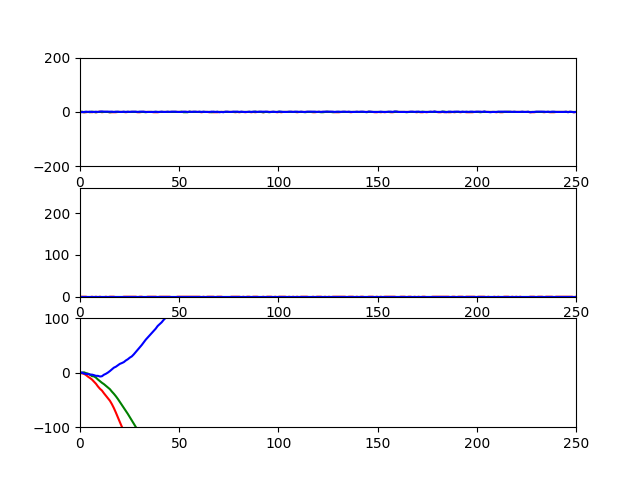
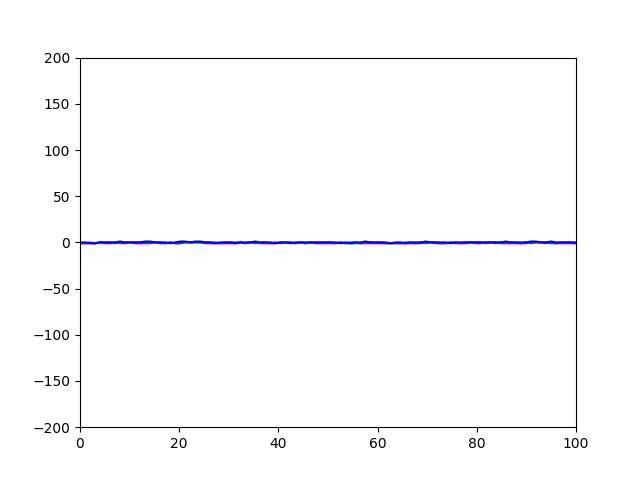
kalman filter works but it still sucks

diff --git a/PYTHON_codes/UDPclient.py b/PYTHON_codes/UDPclient.py
@@ -25,97 +25,105 @@ def plot_data(num_points,x,y,z,subplot,axisrange):
         subplot is a integer
         axisrange is a tuple
     '''
-    plt.subplot(subplot)
+    if(subplot > 0):
+        plt.subplot(subplot)
+    #print(np.shape(x))
     plt.plot(np.linspace(0,num_points,num_points), x, 'r')
     plt.plot(np.linspace(0,num_points,num_points), y, 'g')
     plt.plot(np.linspace(0,num_points,num_points), z, 'b')
     plt.axis([0, num_points, axisrange[0],axisrange[1]])
 
-while True: 
-    #___Send First Packet___
+try:
+    while True: 
+        #___Send First Packet___
+        UDPClientSocket.sendto(bytesToSend, serverAddressPort)
+        print("sent msg to server")
+        starttime = time.time()
+        time.sleep(0.1)
+        while True:
+            try:
+                #__Receive data___
+                msgFromServer = UDPClientSocket.recvfrom(bufferSize)
+                biscoito = json.loads(str(msgFromServer[0], 'utf-8'))
+                #print(biscoito['A']) 
+                Ax.append(biscoito['A'][0]-4) 
+                Ay.append(biscoito['A'][1]-1)
+                Az.append(biscoito['A'][2]-93)
+                Gx.append(biscoito['A'][3])
+                Gy.append(biscoito['A'][4])
+                Gz.append(biscoito['A'][5])
+                #print(Ax[-1],' | ',Ay[-1])
+                
+                #__Kalman___
+                f = KalmanFilter (dim_x=3,dim_z=3)
+                f.x = np.array([[0.],    # Ax
+                                [0.],    # Ay
+                                [0.]])   # Az
+                f.F = np.array([[1.,0.,0.], #F = A
+                                [0.,1.,0.],
+                                [0.,0.,1.]])
+                f.H = np.array([[1.,0.,0.], #H = C
+                                [0.,1.,0.],
+                                [0.,0.,1.]])
+                f.P = np.array([[0.05,0.,0.],
+                                [0.,0.05,0.],
+                                [0.,0.,0.05]])
+                f.R = np.array([[0.05,0.,0.],
+                                [0.,0.05,0.],
+                                [0.,0.,0.05]])
+                f.predict() #x,P
+                f.update([[Ax[-1]], #X,P
+                        [Ay[-1]],
+                        [Az[-1]]])
+                K_Ax.append(f.x[0])
+                K_Ay.append(f.x[1])
+                K_Az.append(f.x[2])
+                
+                #__Integrate data__
+                Vx.append(Vx[-1] + (Ax[-1] + Ax[-2])/2.0) 
+                Vy.append(Vy[-1] + (Ay[-1] + Ay[-2])/2.0)
+                Vz.append(Vz[-1] + (Az[-1] + Az[-2])/2.0)
+                Sx.append(Sx[-1] + Vx[-2] + (Ax[-2] + Ax[-1]/4.0))
+                Sy.append(Sy[-1] + Vy[-2] + (Ay[-2] + Ay[-1]/4.0))
+                Sz.append(Sz[-1] + Vz[-2] + (Az[-2] + Az[-1]/4.0))
+                time.sleep(0.01)
+            
+            except:
+                pass
+
+            #___Populating the plot_____
+            num_points = 100
+            if(len(Ax) == num_points):
+                #__Saving the figure____
+                plt.figure()
+                plot_data(num_points,Ax,Ay,Az,311,(-200,200))
+                plot_data(num_points,Gx,Gy,Gz,312,(0,260))
+                plot_data(num_points,Sx,Sy,Sz,313,(-100,100))
+                plt.figure()
+                plot_data(num_points,K_Ax,K_Ay,K_Az,0,(-200,200))
+                print('Saving sensor data')
+                plt.savefig('../plots/SensorData' + str(img_iter))
+
+                #__FFT data__
+                #N = num_points
+                #yf = np.abs(scipy.fft.fft(np.asarray(Ay)))
+                #xf = np.linspace(0.0, int(100/2), num_points//2)
+                #plt.figure()
+                #plt.plot(xf,2.0/num_points*yf[0:N//2])
+                plt.show()
+
+                #__Emptying the lists___
+                Ax,Ay,Az = [],[],[]
+                Gx,Gy,Gz = [],[],[]
+                img_iter +=1
+
+                #__Send another packet to stop__
+                UDPClientSocket.sendto(bytesToSend, serverAddressPort)
+                #time.sleep(50)
+                break
+        break
+except Exception as e:
+    print(e)
     UDPClientSocket.sendto(bytesToSend, serverAddressPort)
-    print("sent msg to server")
-    starttime = time.time()
-    time.sleep(0.1)
-    while True:
-        try:
-            #__Receive data___
-            msgFromServer = UDPClientSocket.recvfrom(bufferSize)
-            biscoito = json.loads(str(msgFromServer[0], 'utf-8'))
-            #print(biscoito['A']) 
-            Ax.append(biscoito['A'][0]-4) 
-            Ay.append(biscoito['A'][1]-1)
-            Az.append(biscoito['A'][2]-93)
-            Gx.append(biscoito['A'][3])
-            Gy.append(biscoito['A'][4])
-            Gz.append(biscoito['A'][5])
-            print(Ax[-1],' | ',Ay[-1])
-
-            #__Kalman___
-            f = KalmanFilter (dim_x=3,dim_z=3)
-            f.x = np.array([[0.],    # position
-                            [0.],
-                            [0.]])   # velocity
-            f.F = np.array([[1.,0.,0.],
-                            [0.,1.,0.],
-                            [0.,0.,1.]])
-            f.H = np.array([[1.,0.,0.],
-                            [0.,1.,0.],
-                            [0.,0.,1.]])
-            f.P = np.array([[0.05,0.,0.],
-                            [0.,0.05,0.],
-                            [0.,0.,0.05]])
-            f.R = np.array([[0.05,0.,0.],
-                            [0.,0.05,0.],
-                            [0.,0.,0.05]])
-            x, P = predict(x, P, F)
-            x, P = update(x, P, z, R, H)
-
-            #__Integrate data__
-            timer = time.time()
-            Vx.append(Vx[-1] + (Ax[-1] + Ax[-2])/2.0) 
-            Vy.append(Vy[-1] + (Ay[-1] + Ax[-2])/2.0)
-            Vz.append(Vz[-1] + (Az[-1] + Ax[-2])/2.0)
-            Sx.append(Sx[-1] + Vx[-2] + (Ax[-2] + Ax[-1]/4.0))
-            Sy.append(Sy[-1] + Vy[-2] + (Ay[-2] + Ay[-1]/4.0))
-            Sz.append(Sz[-1] + Vz[-2] + (Az[-2] + Az[-1]/4.0))
-            time.sleep(0.01)
-            
-            
-        except KeyboardInterrupt:
-            UDPClientSocket.sendto(bytesToSend, serverAddressPort)
-            exit()
-        except:
-            pass
-
-        #___Populating the plot_____
-        num_points = 250
-        if(len(Ax) == num_points):
-            #__Saving the figure____
-            plt.figure()
-            plot_data(num_points,Ax,Ay,Az,311,(-200,200))
-            plot_data(num_points,Gx,Gy,Gz,312,(0,260))
-            plot_data(num_points,Sx,Sy,Sz,313,(-100,100))
-            print('Saving sensor data')
-            plt.savefig('../plots/SensorData' + str(img_iter))
-
-            #__FFT data__
-            N = num_points
-            yf = np.abs(scipy.fft.fft(np.asarray(Ay)))
-            xf = np.linspace(0.0, int(100/2), num_points//2)
-            plt.figure()
-            plt.plot(xf,2.0/num_points*yf[0:N//2])
-            plt.show()
-
-            #__Emptying the lists___
-            Ax,Ay,Az = [],[],[]
-            Gx,Gy,Gz = [],[],[]
-            img_iter +=1
-
-            #__Send another packet to stop__
-            UDPClientSocket.sendto(bytesToSend, serverAddressPort)
-            #time.sleep(50)
-            break
-    break
-    
+    exit()   
 

diff --git a/PYTHON_codes/asd.py b/PYTHON_codes/asd.py
@@ -1,19 +1,5 @@
-from filterpy.kalman import KalmanFilter
-from filterpy.common import Q_discrete_white_noise
-
-f = KalmanFilter (dim_x=2, dim_z=1)
-f.x = np.array([[0.],    # position
-                [0.]])   # velocity
-f.F = np.array([[1.,1.],
-                [0.,1.]])
-f.H = np.array([[1.,0.]])
-f.P = np.array([[1000.,    0.],
-                [   0., 1000.] ])
-f.R = np.array([[.05,0.,0.],
-                [0.,1.,0.],
-                [0.,0.,1.]])
-
-while True:
-    z, R = read_sensor()
-    x, P = predict(x, P, F, Q)
-    x, P = update(x, P, z, R, H)
+import numpy as np
+L = [[1, 2, 3],[4, 5, 6],[7, 8, 9]]   
+L = np.array(L)
+X = np.array([[1,2,3],[4,5,6]])
+print(X[0][0])
